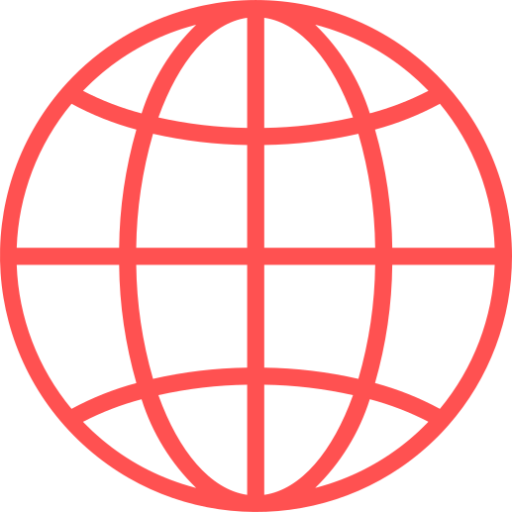
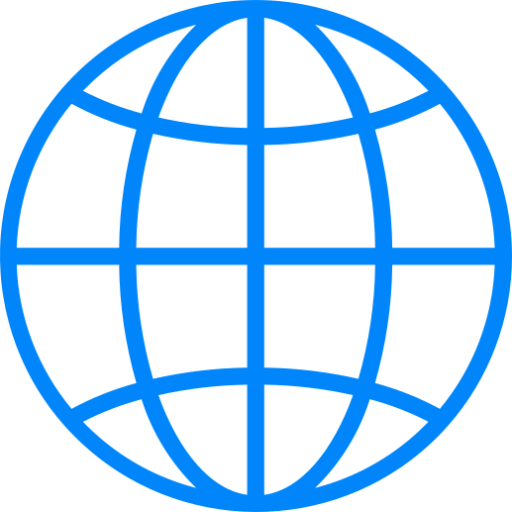
processo sobre

Changed region(s): [[0.0, 0.0, 1.0, 1.0]]

diff --git a/site-institucional/css/sobre.css b/site-institucional/css/sobre.css
@@ -14,10 +14,7 @@ body{
     height: 100vh;
     width: 100%;
     float: left;
-    background-color: black;
-    /**background-image: url(https://static.vecteezy.com/system/resources/previews/000/681/458/non_2x/black-and-dark-red-angled-cut-paper-effect-background.jpg);
-    background-size: cover;
-    background-repeat: no-repeat;**/
+    background-color: #1E90FF;
     color: #fff;
 }
 
@@ -42,7 +39,7 @@ body{
 }
 
 .fundoimagem{
-    background-color: #FF5151;
+    background-color: #0086FA;
     height: 85px;
     width: 85px;
     float: left;
@@ -57,7 +54,7 @@ body{
 }
 
 .ideais h3{
-    color: #FF5151;
+    color: #0086FA;
     font-size: 20px;
     margin-bottom: 5px;
 }
